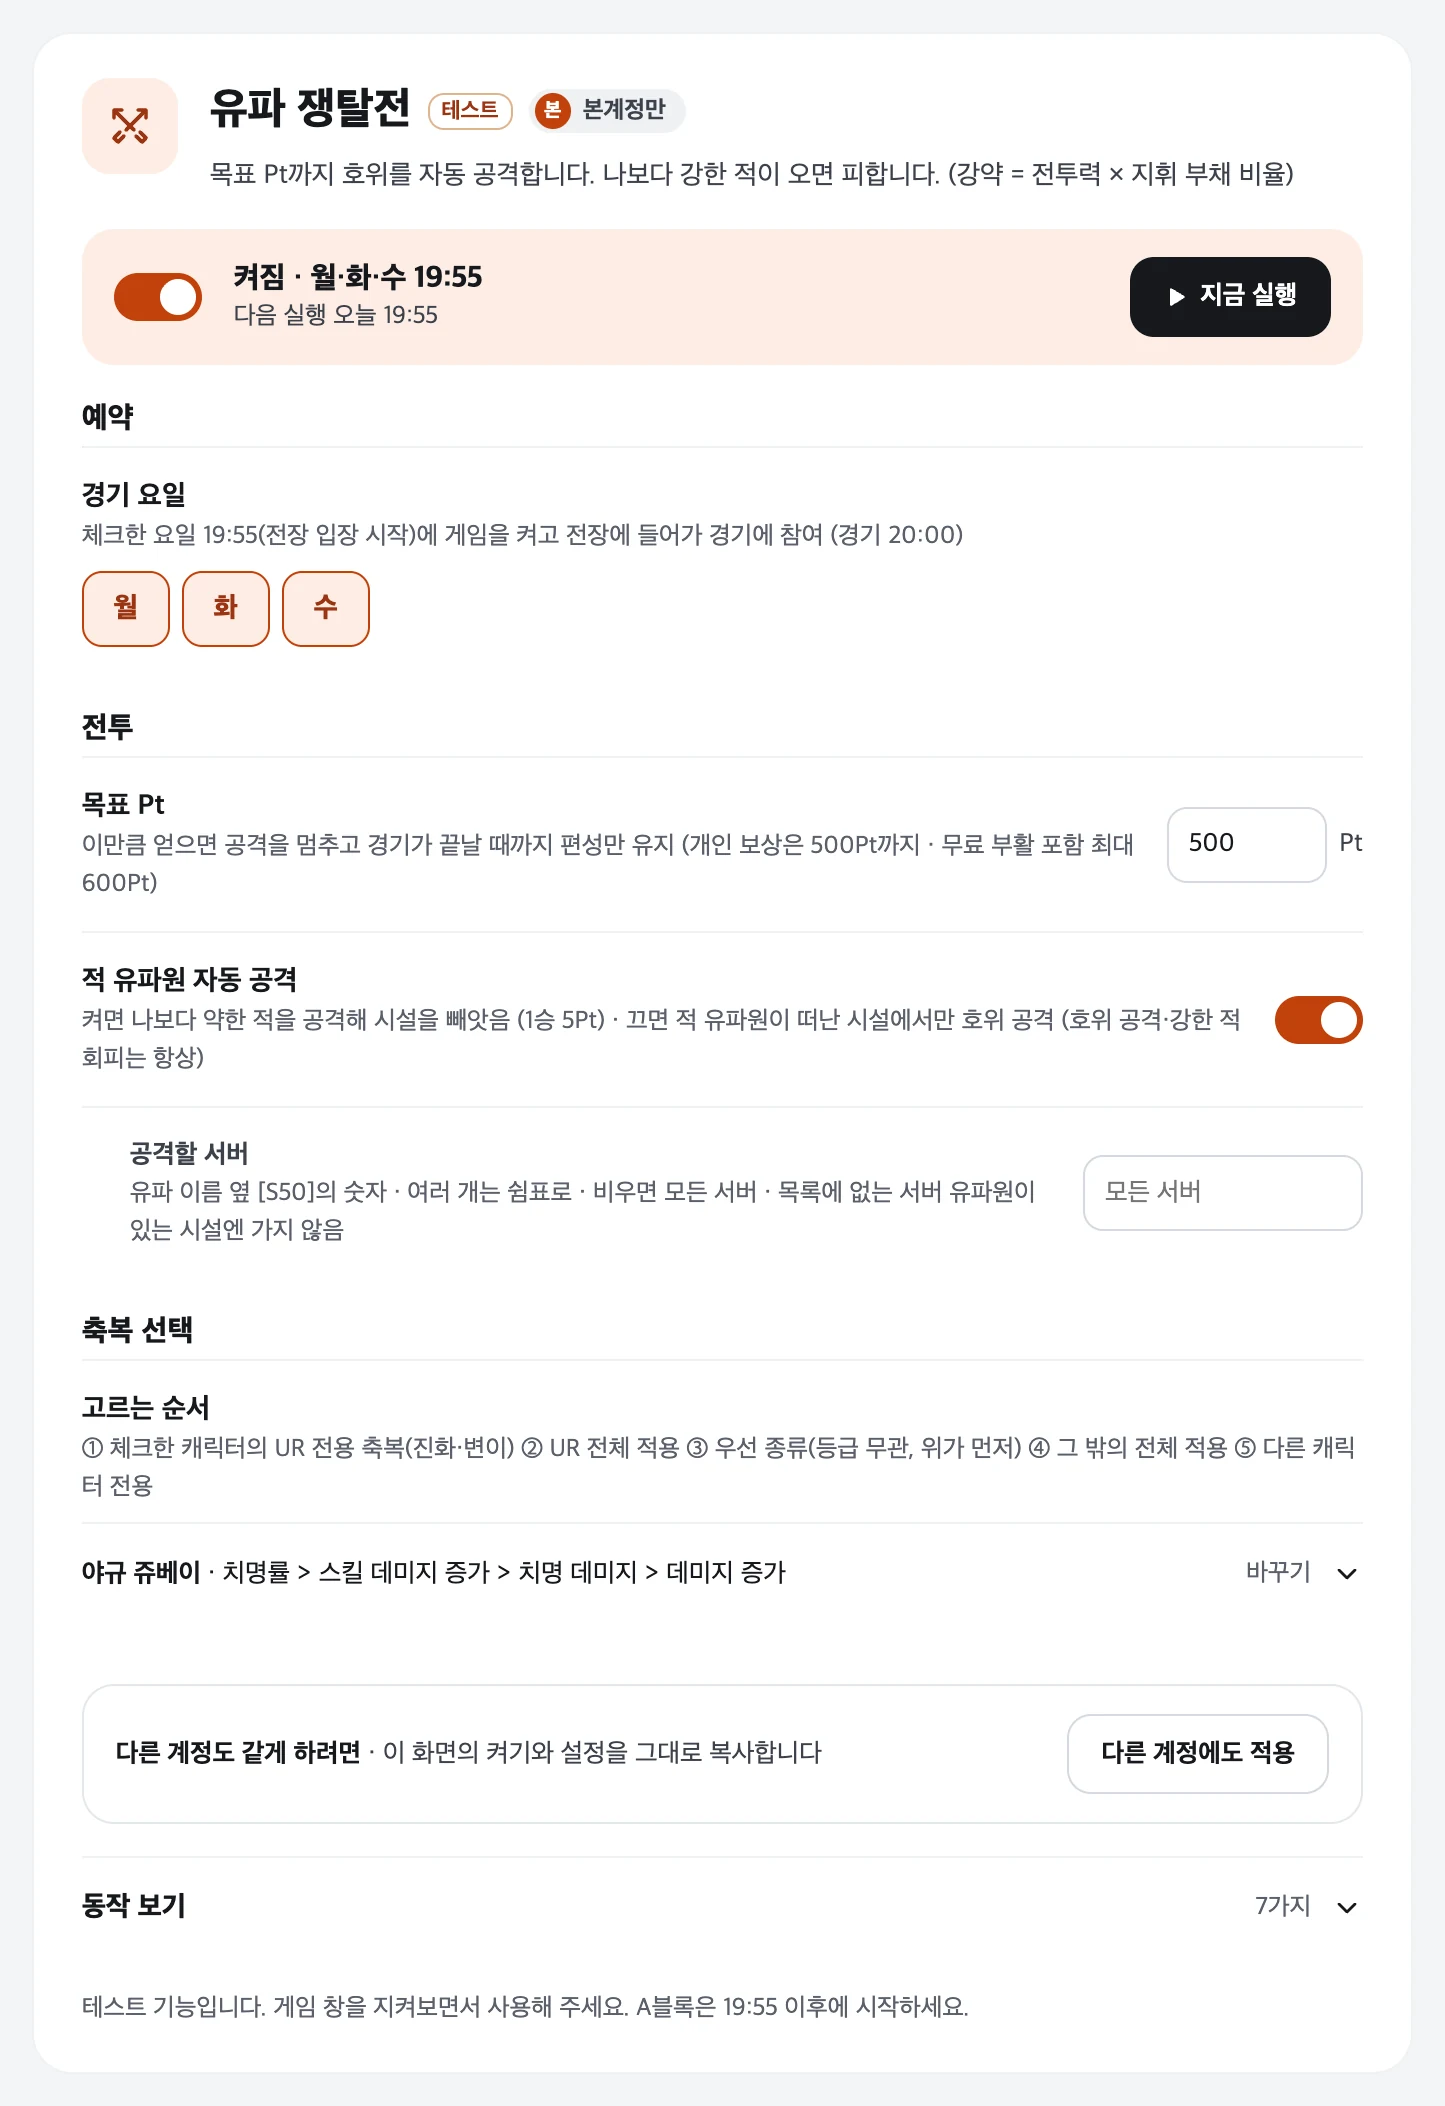
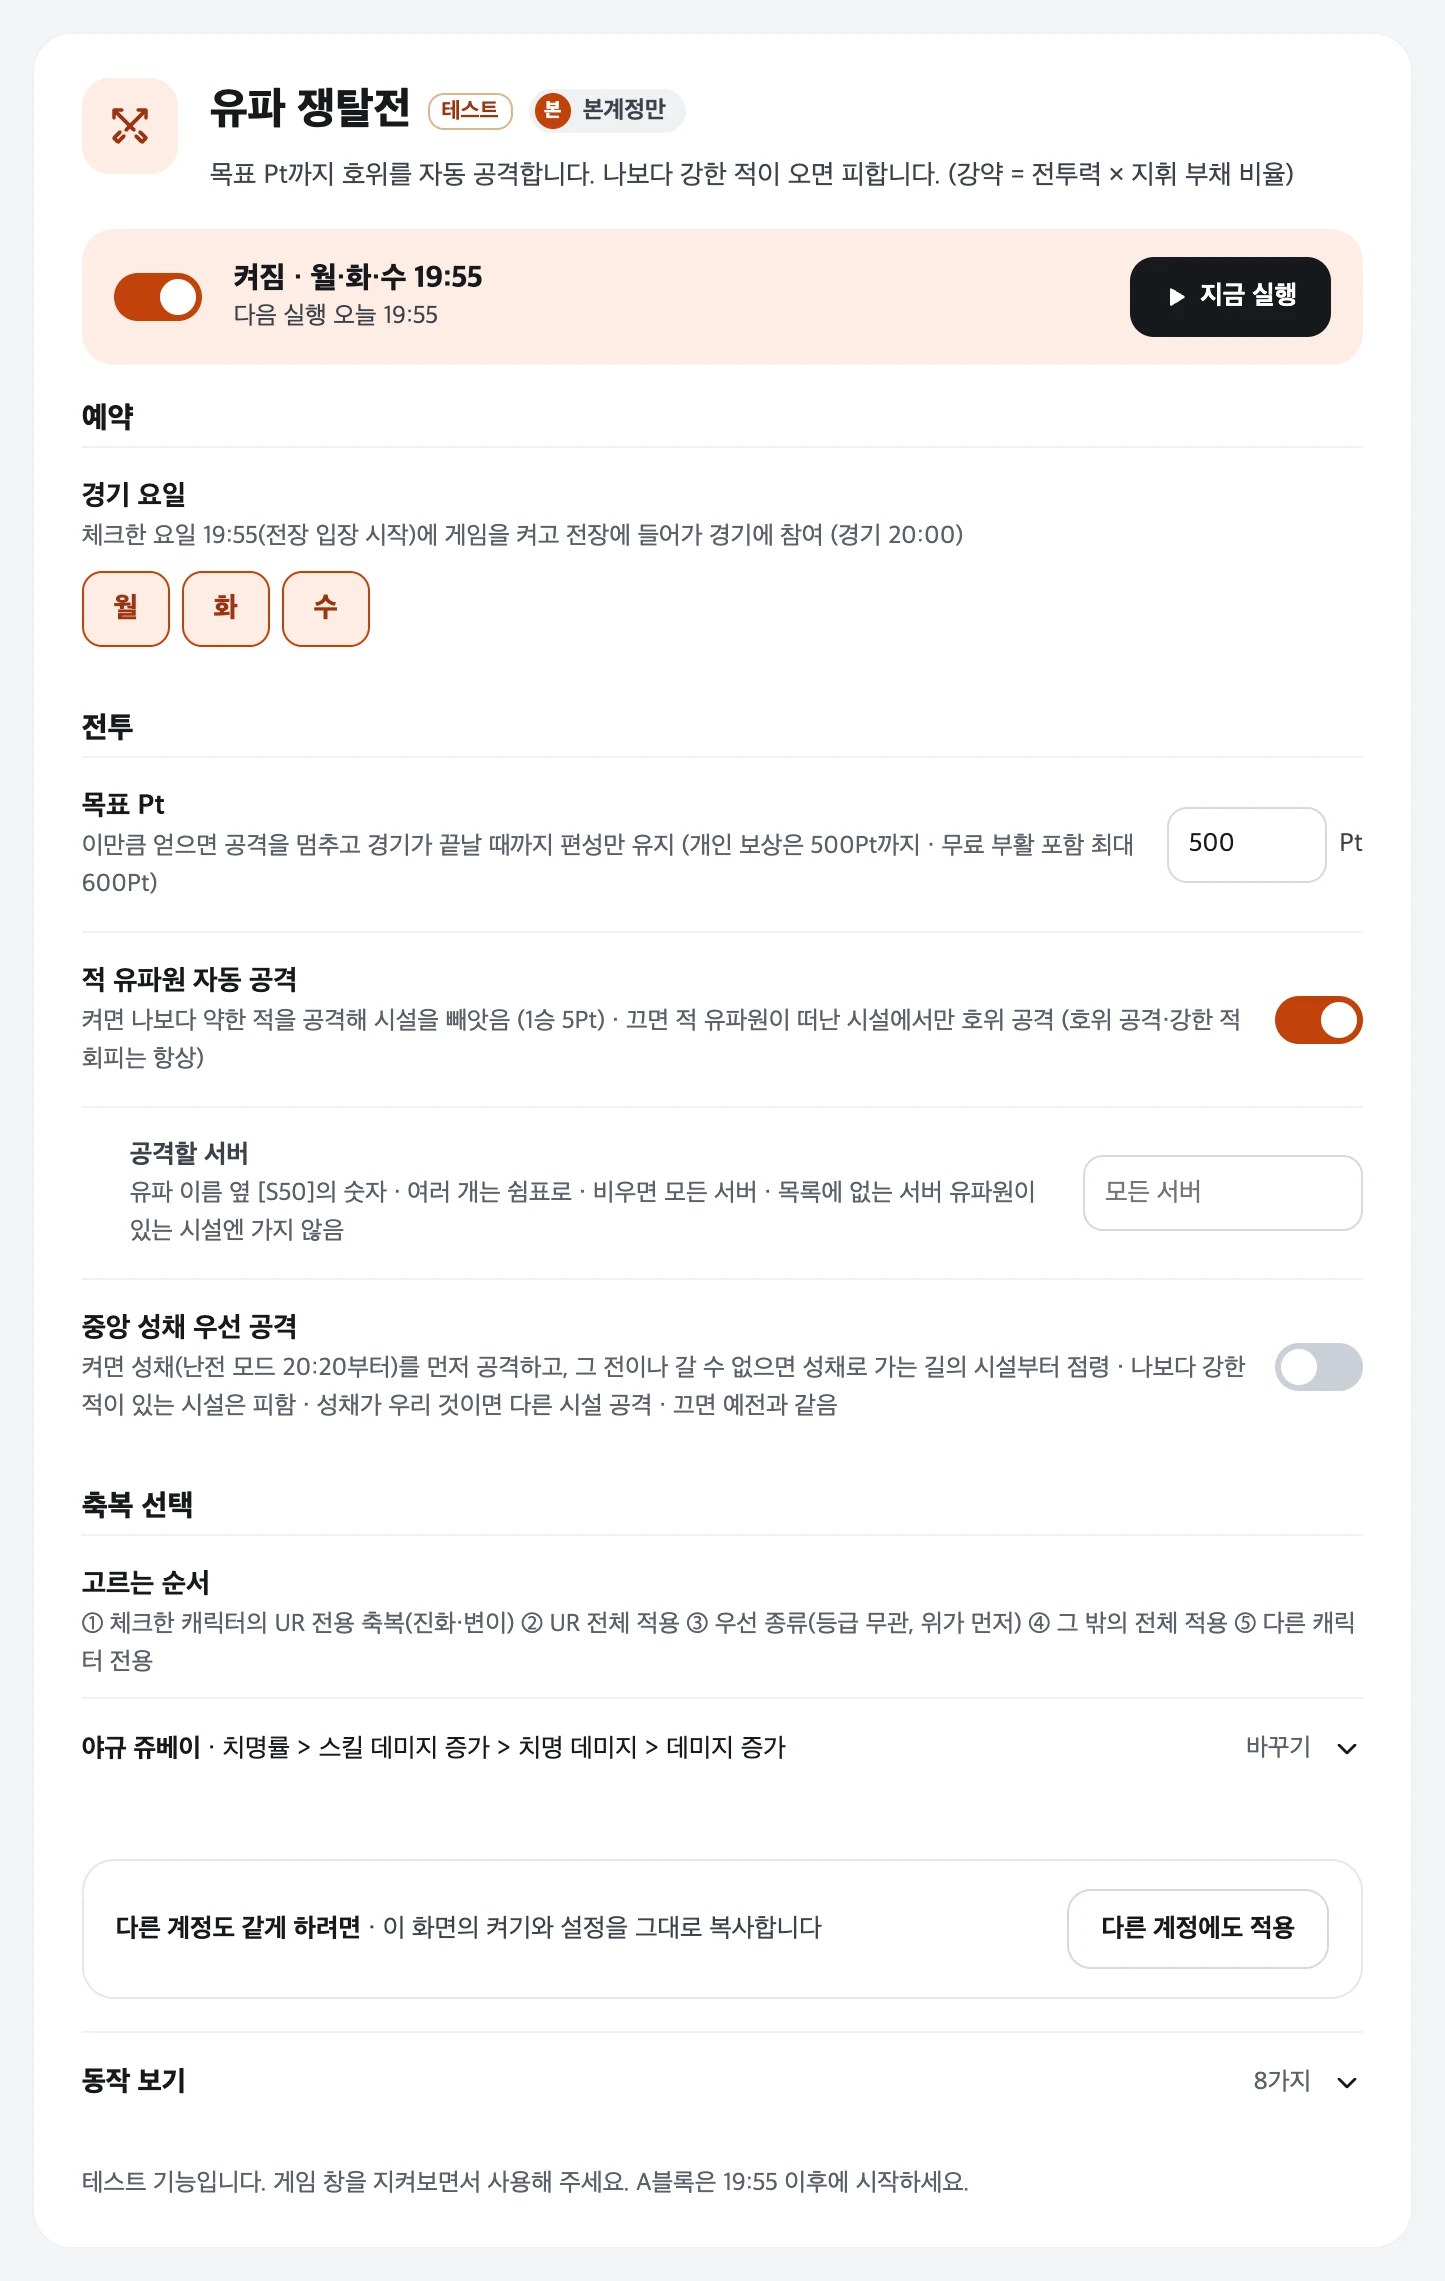
중앙 성채(본당) 우선 공격 설정 추가 반영 (유파 쟁탈전·학원 교류전·학원 쟁패전, README·홈페이지·화면 이미지)
Claude-Session: https://claude.ai/code/session_01KmZacC9g59P258iksb1Q9u

diff --git a/docs/features.html b/docs/features.html
@@ -204,6 +204,7 @@
           <ul>
             <li><b>목표 Pt</b>(기본 500 = 개인 보상 전부)를 채우면 공격을 멈추고 편성만 유지합니다.</li>
             <li><b>적 유파원 자동 공격</b>: 나보다 약한 적만 공격하고, 강한 적은 피합니다. <b>공격할 서버</b>를 정할 수 있습니다.</li>
+            <li><b>중앙 성채 우선 공격</b>(기본 끔): 성채 → 성채로 가는 길의 시설 순서로 공격합니다. 강한 적이 있는 시설은 피하고, 성채가 우리 것이면 다른 시설을 공격합니다.</li>
             <li><b>축복 선택</b>: 전용 축복 캐릭터와 우선 종류의 순서를 정합니다.</li>
           </ul>
           <p class="muted small">게임에서 공방 편성을 한 번 저장해 두어야 하고, 유파가 그 주에 참가 신청되어 있어야 합니다. 아군이 시설을 빨리 점령하면 자주 옮겨 다녀 다이아가 많이 듭니다(첫 실전에서 500Pt까지 약 3,500다이아).</p>
@@ -218,6 +219,7 @@
           <ul>
             <li><b>평화 모드(20:00~20:20)</b>: 우리 영지에 붙은 시설의 호위를 공격해 점령합니다. 점수가 큰 시설과 가까운 시설부터.</li>
             <li><b>난전 모드(20:20~21:00)</b>: 나보다 약한 적 유파원을 찾아가 공격하고, 강한 적이 오면 안전한 시설로 피합니다.</li>
+            <li><b>중앙 본당 우선 공격</b>(기본 끔): 두 모드 모두 본당 → 본당으로 가는 길의 시설 순서로 먼저 공격합니다. 본당이 우리 것이거나 갈 수 없으면 위 방식대로.</li>
             <li>유파 신청은 회장·부회장 등이 게임에서 하고, 신청·선정되지 않은 주는 건너뜁니다.</li>
           </ul>
         </div>
@@ -243,6 +245,7 @@
           <ul>
             <li>유파 쟁탈전과 같은 방식으로 호위 자동 공격·약한 적 공격·강한 적 회피·부활을 합니다.</li>
             <li>고른 <b>직업</b>을 경기 시작 때 선택하고, 직업 스킬은 쿨타임마다 씁니다.</li>
+            <li><b>중앙 본당 우선 공격</b>(기본 끔): 본당 → 본당으로 가는 길의 시설 순서로 공격합니다. 본당이 우리 것이면 다른 시설.</li>
             <li>유파가 그 주 경기에 신청·선출되지 않았으면 건너뜁니다.</li>
           </ul>
         </div>
